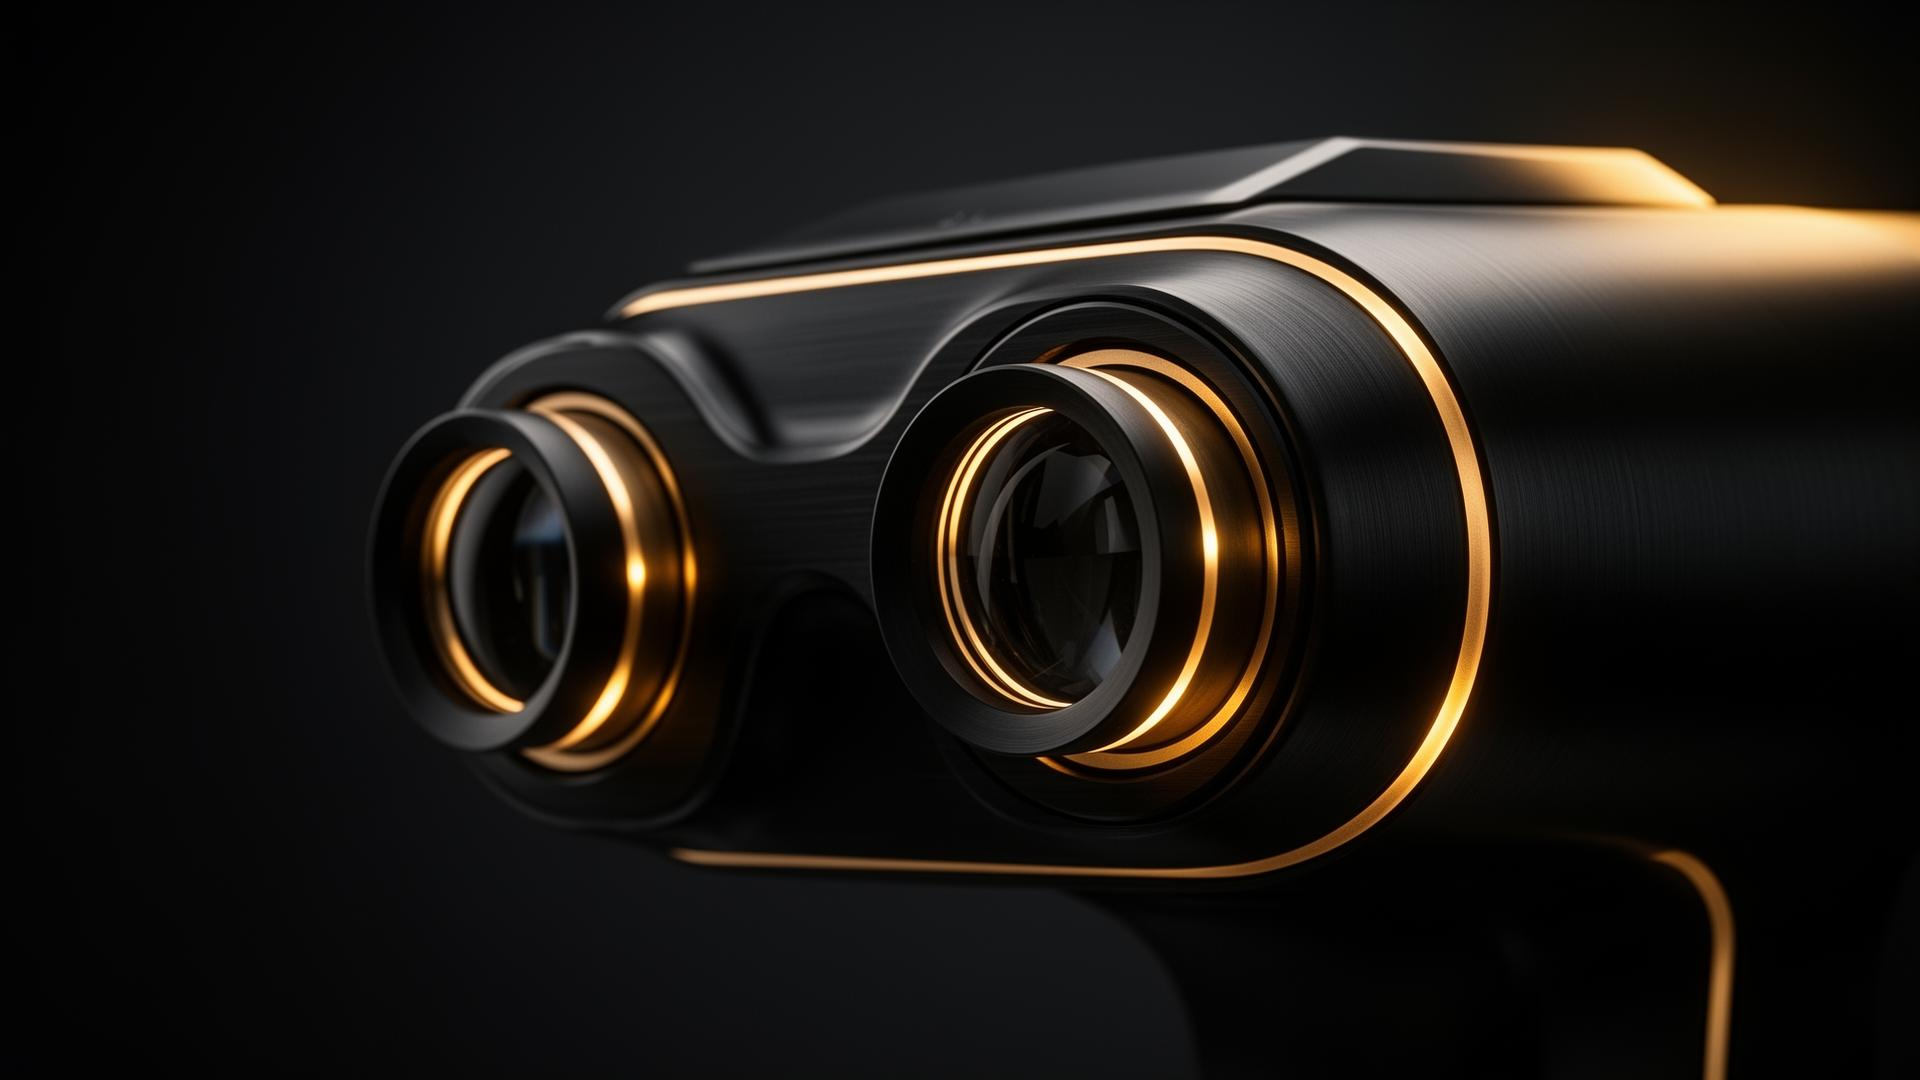
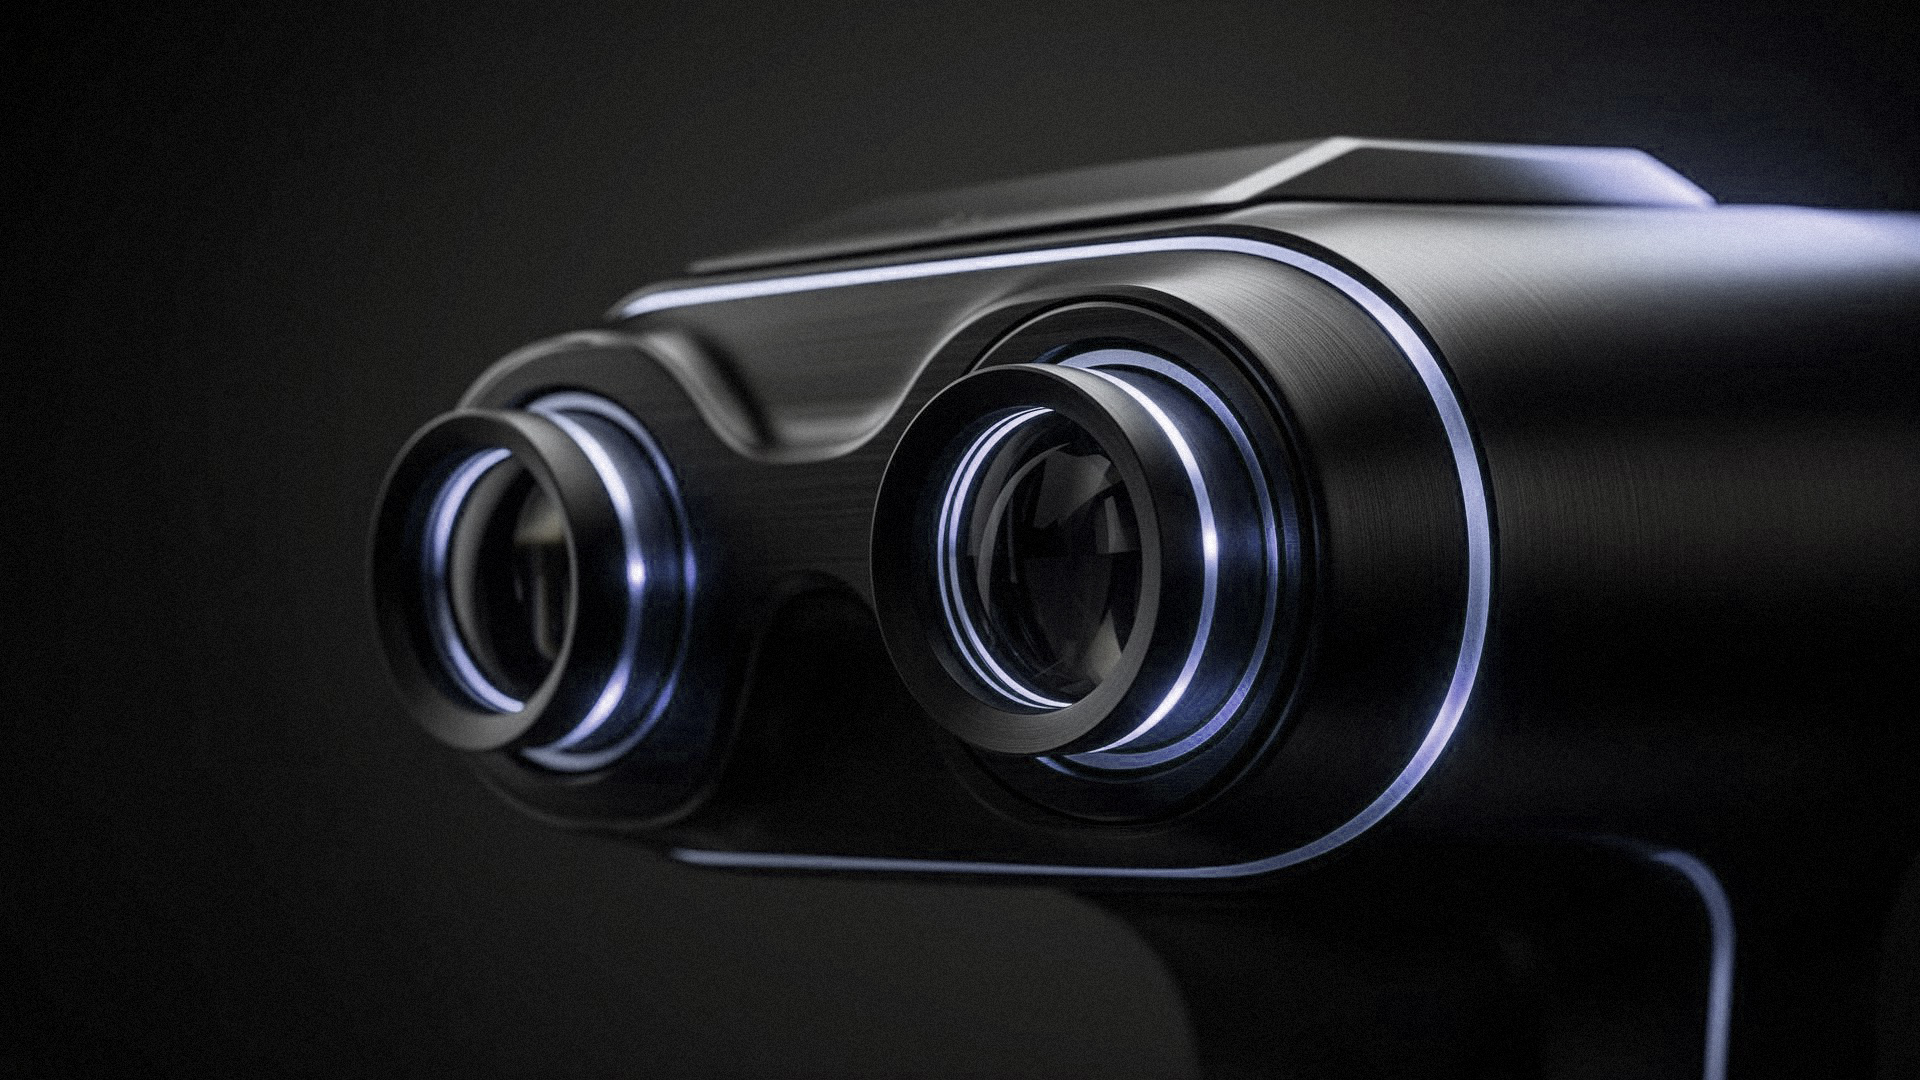
knob

diff --git a/src/app/projects/hooke/page.tsx b/src/app/projects/hooke/page.tsx
@@ -2,95 +2,176 @@
 
 import Image from "next/image";
 
+import arduinoImg from "./arduino.jpg";
 import coverImg from "./cover.jpg";
+import heroImg from "./hooke-device.jpg";
+import styles from "./placeholder.module.css";
+
+function Placeholder({ label }: { label: string }) {
+  return <div className={styles.placeholder}>{label}</div>;
+}
 
 export default function Page() {
   return (
     <>
-      <h1>Falcon Self-Serve Exam</h1>
-      <p className="description">
-        Patient-operated eye exam for a near-eye device
+      <h1>Hooke</h1>
+      <p className="description">Self-guided eye exam device</p>
+      <p>
+        Hooke&apos;s Falcon fits a complete eye exam into one portable device,
+        with AR optics that replace the traditional 3–6 metre exam room.
       </p>
       <p>
-        Hooke&apos;s Falcon fits a full eye exam into one portable device. Hooke
-        brought me in as a UX expert to remove the last requirement: the
-        optometrist. The work covered hardware UX, a prototype, 3D animation and
-        implementation.
+        Hooke brought me in as a UX expert to design a self-serve version of the
+        exam: one that patients can take on their own, guided by the device
+        itself.
+      </p>
+      <p>
+        Since the experience depends on everything the patient touches, sees and
+        hears, the work spanned the physical input, the in-device interface, a
+        stereoscopic 3D animation and the device software.
       </p>
 
+      <figure className="grid-wide">
+        <Image
+          src={heroImg}
+          alt="A wall-mounted Falcon device being presented to a customer in a shop"
+        />
+        <figcaption>The Falcon self-serve eye exam</figcaption>
+      </figure>
+
+      <h2>The challenge</h2>
+      <p>
+        In a traditional exam, an optometrist guides you through every step.
+        Here, the patient is on their own:
+      </p>
+      <ul>
+        <li>
+          <strong>No one to ask.</strong> Every instruction has to come from the
+          device.
+        </li>
+        <li>
+          <strong>A tiny screen.</strong> Falcon&apos;s small display has to fit
+          both the interface and the test stimulus.
+        </li>
+        <li>
+          <strong>Working blind.</strong> Patients can&apos;t see their
+          surroundings or their own hands.
+        </li>
+      </ul>
+      <p>
+        The existing screens, built for an optometrist to drive, had no
+        instructions at all.
+      </p>
+      <p>
+        The goal: an exam patients can complete confidently on their own, clear
+        at every step, clinically valid and engaging.
+      </p>
+
+      <h2>Finding the right input</h2>
+      <p>
+        Every step comes down to picking one option from a short list, so the
+        question was which control makes that easiest without looking.
+      </p>
+      <p>
+        I explored a button pad, a joystick, a dial and voice control. Buttons
+        are hard to tell apart by touch, joysticks are less precise, and voice
+        is awkward in noisy or public places.
+      </p>
+      <figure>
+        <Placeholder label="Concept sheet comparing the four input options" />
+      </figure>
+      <p>
+        I built an Arduino prototype with 3D-printed knobs and had people try
+        the options.
+      </p>
+      <figure>
+        <Image
+          src={arduinoImg}
+          alt="Arduino joystick shield with buttons, wired to a white 3D-printed dial"
+        />
+        <figcaption>The Arduino test rig and a 3D-printed knob</figcaption>
+      </figure>
+      <p>
+        The dial won: like the iPod click wheel, it&apos;s one gesture and one
+        click, easy to use by touch and good for numbers like age. The final
+        dial was chosen for its size, weight, click and feel.
+      </p>
+
+      <h2>Designing in the dark</h2>
+      <p>
+        The exam takes place on pure black, which blends into the darkness
+        inside the device so the screen feels larger than it is.
+      </p>
+      <p>Instructions and options sit clearly apart from the test stimulus.</p>
+      <p>
+        On an eye exam, interface text is itself a vision test, so type size and
+        placement had to keep instructions readable without affecting the
+        measurement.
+      </p>
+      <figure>
+        <Placeholder label="Before/after of an exam screen" />
+      </figure>
+
+      <h2>A guided exam</h2>
+      <p>
+        I designed the exam as a conversation: each step asks one clear question
+        with a few answers to choose from.
+      </p>
+      <p>
+        Hooke&apos;s optometrist defined the exam logic as a state machine, and
+        I turned each state into a step the patient can follow alone.
+      </p>
+      <figure className="grid-wide">
+        <Placeholder label="Diagram: the exam flow, from start to results" />
+      </figure>
+      <p>
+        I wrote the script and produced AI narration. Sound cues, animations and
+        transitions confirm each answer and show what comes next.
+      </p>
+      <p>
+        Reporting &quot;the smallest line I can read&quot; feels harder than
+        actually reading, so the acuity test moves from Snellen to a
+        forced-choice Landolt C.
+      </p>
+      <p>
+        I built the flow as a high-fidelity React prototype so Hooke could try
+        it end to end.
+      </p>
+      <figure className="grid-wide">
+        <Placeholder label="Video: prototype walkthrough of the guided exam" />
+      </figure>
+
+      <h2>The dragonfly</h2>
+      <p>
+        During the objective measurement, patients focus on a stereoscopic 3D
+        dragonfly I modelled and animated in Blender.
+      </p>
+      <p>
+        Its hovering flight naturally matches the path the target needs to
+        follow, and its red colour blends with the device&apos;s red test LED.
+      </p>
       <figure className="grid-wide">
         <Image
           src={coverImg}
           alt="A red dragonfly flying over a pond with water lilies"
         />
       </figure>
+      <p>
+        The animation had to be precise: its virtual distance drives the
+        eye&apos;s vergence and depth of field, so age sets how close it flies,
+        and its timing stays in sync with the automated measurements.
+      </p>
+      <figure>
+        <Placeholder label="Illustration: flight path over time, with the measurement windows and age bands marked" />
+      </figure>
 
-      <h2>The challenge</h2>
-      <ul>
-        <li>No one in the room to guide the patient</li>
-        <li>One small display holds both the UI and the test stimulus</li>
-        <li>The patient can&apos;t see their surroundings or their hands</li>
-        <li>
-          The existing screens had stimuli and buttons, but no instructions
-        </li>
-      </ul>
-
-      <h2>Finding the right input</h2>
-      <ul>
-        <li>Compared buttons, joystick, dial and voice</li>
-        <li>
-          Built an Arduino rig with 3D-printed knobs and let people try it
-        </li>
-        <li>Chose a dial for its size, weight, click and feel</li>
-      </ul>
-
-      <h2>Designing in the dark</h2>
-      <ul>
-        <li>A pure black background makes the screen feel larger</li>
-        <li>
-          On-screen text is itself a vision stimulus, on optics sharper than the
-          eye
-        </li>
-      </ul>
-
-      <h2>A guided exam</h2>
-      <ul>
-        <li>
-          Exam logic and state machine defined with Hooke&apos;s optometrist
-        </li>
-        <li>One question and a few answers per step</li>
-        <li>Wrote the script and produced AI narration</li>
-        <li>
-          Sound, motion and transitions show what&apos;s happening and what
-          comes next
-        </li>
-        <li>Snellen first, moving to Landolt C</li>
-      </ul>
-
-      <h2>The dragonfly</h2>
-      <ul>
-        <li>
-          Replaced an old fish animation that looked bad and had several issues
-        </li>
-        <li>
-          A dragonfly&apos;s natural flight matches the required trajectory
-        </li>
-        <li>Red, to blend with the device&apos;s red test LED</li>
-        <li>
-          Built in Blender, with distance set by age and timing synced to the
-          measurements
-        </li>
-      </ul>
-
-      <h2>From prototype to product</h2>
-      <ul>
-        <li>High-fidelity prototype in React</li>
-        <li>Ported to Python and running on the device</li>
-        <li>Data-driven exam flow</li>
-      </ul>
-
-      <h2>Status</h2>
-      <p>Unreleased, with voice input as a possible next step.</p>
+      <h2>Outcome</h2>
+      <p>
+        After the prototype, Hooke asked me to implement the flow and interface
+        as well. I built it into Falcon&apos;s Python software, with a
+        data-driven flow the team can change without touching code.
+      </p>
+      <p>The self-serve exam is still unreleased.</p>
     </>
   );
 }

diff --git a/src/app/projects/hooke/placeholder.module.css b/src/app/projects/hooke/placeholder.module.css
@@ -1,0 +1,12 @@
+.placeholder {
+  display: flex;
+  align-items: center;
+  justify-content: center;
+  width: 100%;
+  aspect-ratio: 16 / 9;
+  padding: var(--space-md);
+  border: 1px dashed var(--color-secondary);
+  border-radius: var(--rounding-medium);
+  color: var(--color-secondary);
+  text-align: center;
+}
